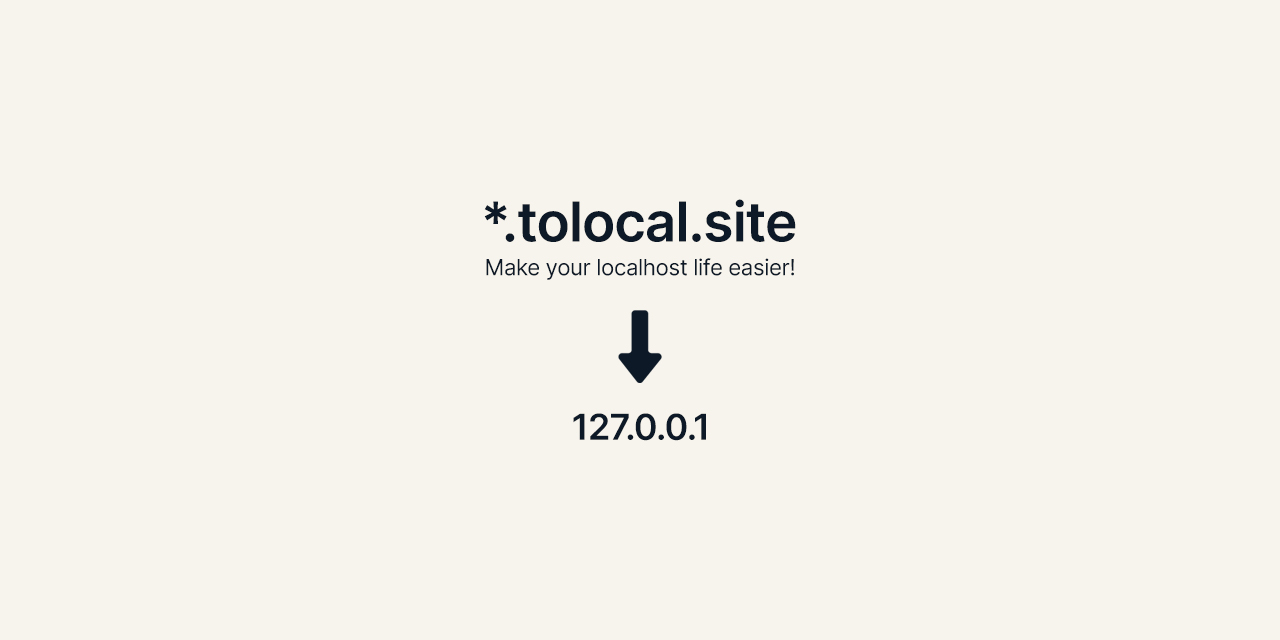
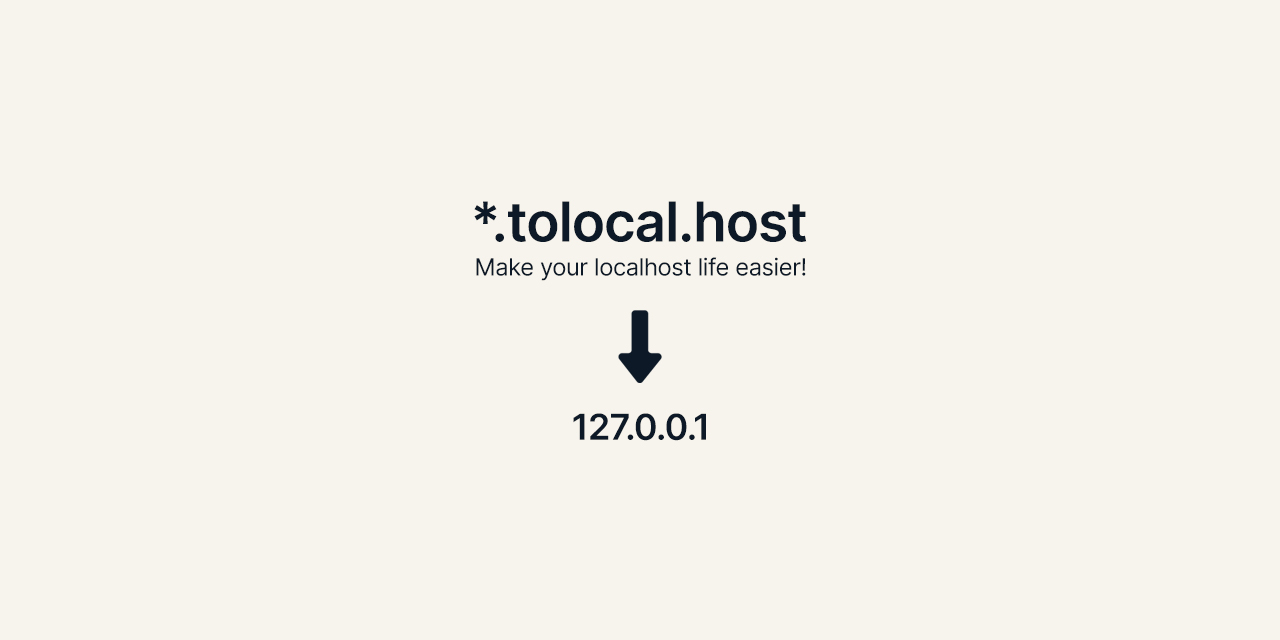
Change tld to .host

Changed region(s): [[0.375, 0.3125, 0.625, 0.4375]]

diff --git a/index.html b/index.html
@@ -3,11 +3,11 @@
 <head>
     <meta charset="UTF-8">
     <meta name="viewport" content="width=device-width, initial-scale=1.0">
-    <title>About tolocal.site</title>
-    <meta name="title" content="About tolocal.site">
+    <title>About tolocal.host</title>
+    <meta name="title" content="About tolocal.host">
     <!-- Open Graph -->
-    <meta property="og:title" content="About tolocal.site">
-    <meta property="og:description" content="Make your localhost life easier: tolocal.site and *.tolocal.site resolve to 127.0.0.1!">
+    <meta property="og:title" content="About tolocal.host">
+    <meta property="og:description" content="Make your localhost life easier: tolocal.host and *.tolocal.host resolve to 127.0.0.1!">
     <meta property="og:image" content="/banner.jpg">
 
     <link rel="shortcut icon" href="/favicon.ico" type="image/x-icon">
@@ -15,30 +15,30 @@
     <link rel="stylesheet" href="/styles.css">
 
     <!-- Ackee -->
-    <script async src="https://stats.mxis.ch/statistik.js" data-ackee-server="https://stats.mxis.ch" data-ackee-domain-id="17f20e48-d3df-4528-b65e-c7467787a25b" data-ackee-opts='{ "detailed": true }'></script>
+    <script async src="https://stats.mxis.ch/statistik.js" data-ackee-server="https://stats.mxis.ch" data-ackee-domain-id="17f20e48-d3df-4528-b65e-c7467787a25b" data-ackee-opts='{ "detailed": true, "ignoreOwnVisits": true }'></script>
 </head>
 <body>
     <main>
         <div class="title">
-            <h1>*.tolocal.site</h1>
+            <h1>*.tolocal.host</h1>
             <p>Make your localhost life easier!</p>
         </div>
         <div class="content">
             <h2>Overview</h2>
-            <p><a href="http://tolocal.site" class="space">tolocal.site</a> and <a href="http://tolocal.site" class="space">*.tolocal.site</a> (all subdomains) resolve to <span>127.0.0.1</span> so you can use it for local development!</p>
+            <p><a href="http://tolocal.host" class="space">tolocal.host</a> and <a href="http://tolocal.host" class="space">*.tolocal.host</a> (all subdomains) resolve to <span>127.0.0.1</span> so you can use it for local development!</p>
             <p>Normally you would have to create hosts file entries for different domains pointing to 127.0.0.1. This is can be very cumbersome!</p>
-            <p><a href="http://tolocal.site">tolocal.site</a> solves this by resolving the domain name and all subdomains to 127.0.0.1, so you can use it right away! Here are a few examples:</p>
+            <p><a href="http://tolocal.host">tolocal.host</a> solves this by resolving the domain name and all subdomains to 127.0.0.1, so you can use it right away! Here are a few examples:</p>
             <ul>
-                <li>tolocal.site</li>
-                <li>mysite.tolocal.site</li>
-                <li>test.tolocal.site</li>
-                <li>node-backend.tolocal.site</li>
-                <li>sub1.sub2.sub3.tolocal.site</li>
+                <li>tolocal.host</li>
+                <li>mysite.tolocal.host</li>
+                <li>test.tolocal.host</li>
+                <li>node-backend.tolocal.host</li>
+                <li>sub1.sub2.sub3.tolocal.host</li>
             </ul>
             <p>All of them will point to 127.0.0.1.</p>
-            <p><a href="http://tolocal.site">tolocal.site</a> also supports IPv6, the AAAA records resolve to ::1.</p>
+            <p><a href="http://tolocal.host">tolocal.host</a> also supports IPv6, the AAAA records resolve to ::1.</p>
             <h2>About</h2>
-            <p>This site is inspired by lvh.me, which does exactly the same! I just always forgot the name, so I registered <a href="http://tolocal.site">tolocal.site</a>, edited the DNS to point it to 127.0.0.1 and created this page. It's very simple really!</p>
+            <p>This site is inspired by lvh.me, which does exactly the same! I just always forgot the name, so I registered <a href="http://tolocal.host">tolocal.host</a> and <a href="http://tolocal.site">tolocal.site</a>, edited the DNS to point it to 127.0.0.1 and created this page. It's very simple really!</p>
             <p>If you want to see what else I'm up too, check out my GitHub profile <a href="https://github.com/betahuhn">@BetaHuhn</a>!</p>
         </div>
     </main>

diff --git a/README.md b/README.md
@@ -1,34 +1,36 @@
 <div align="center">
 
-<img src="https://cdn.mxis.ch/assets/tolocal-site/favicon.png" title="tolocal-site favicon" alt="tolocal-site favicon" width="128">
+<img src="https://cdn.mxis.ch/assets/tolocal-host/favicon.png" title="tolocal-host favicon" alt="tolocal-host favicon" width="128">
 
-# tolocal.site
+# tolocal.host
 
-Make your localhost life easier: tolocal.site and *.tolocal.site resolve to 127.0.0.1!
+Make your localhost life easier: tolocal.host and *.tolocal.host resolve to 127.0.0.1!
 
 </div>
 
 ## Overview
 
-[tolocal.site](http://tolocal.site) and [*.tolocal.site](http://tolocal.site) (all subdomains) resolve to `127.0.0.1` so you can use it for local development!
+[tolocal.host](http://tolocal.host) and [*.tolocal.host](http://tolocal.host) (all subdomains) resolve to `127.0.0.1` so you can use it for local development!
 
 Normally you would have to create hosts file entries for different domains pointing to `127.0.0.1`. This is can be very cumbersome!
 
-[tolocal.site](http://tolocal.site) solves this by resolving the domain name and all subdomains to `127.0.0.1`, so you can use it right away! Here are a few examples:
+[tolocal.host](http://tolocal.host) solves this by resolving the domain name and all subdomains to `127.0.0.1`, so you can use it right away! Here are a few examples:
 
-- tolocal.site
-- mysite.tolocal.site
-- test.tolocal.site
-- node-backend.tolocal.site
-- sub1.sub2.sub3.tolocal.site
+- tolocal.host
+- mysite.tolocal.host
+- test.tolocal.host
+- node-backend.tolocal.host
+- sub1.sub2.sub3.tolocal.host
 
 All of them will point to `127.0.0.1`.
 
-**Note:** [tolocal.site](http://tolocal.site) also supports IPv6, the AAAA records resolves to `::1`.
+[tolocal.site](http://tolocal.site) also belongs to me and resolves to 127.0.0.1 aswell.
+
+**Note:** [tolocal.host](http://tolocal.host) also supports IPv6, the AAAA records resolves to `::1`.
 
 ## About
 
-This site is inspired by lvh.me, which does exactly the same! I just always forgot the name, so I registered [tolocal.site](http://tolocal.site), edited the DNS to point it to 127.0.0.1 and created this page. It's very simple really!
+This site is inspired by lvh.me, which does exactly the same! I just always forgot the name, so I registered [tolocal.host](http://tolocal.host), edited the DNS to point it to 127.0.0.1 and created this page. It's very simple really!
 
 If you want to see what else I'm up too, check out my GitHub profile [@BetaHuhn](https://github.com/betahuhn)!
 
